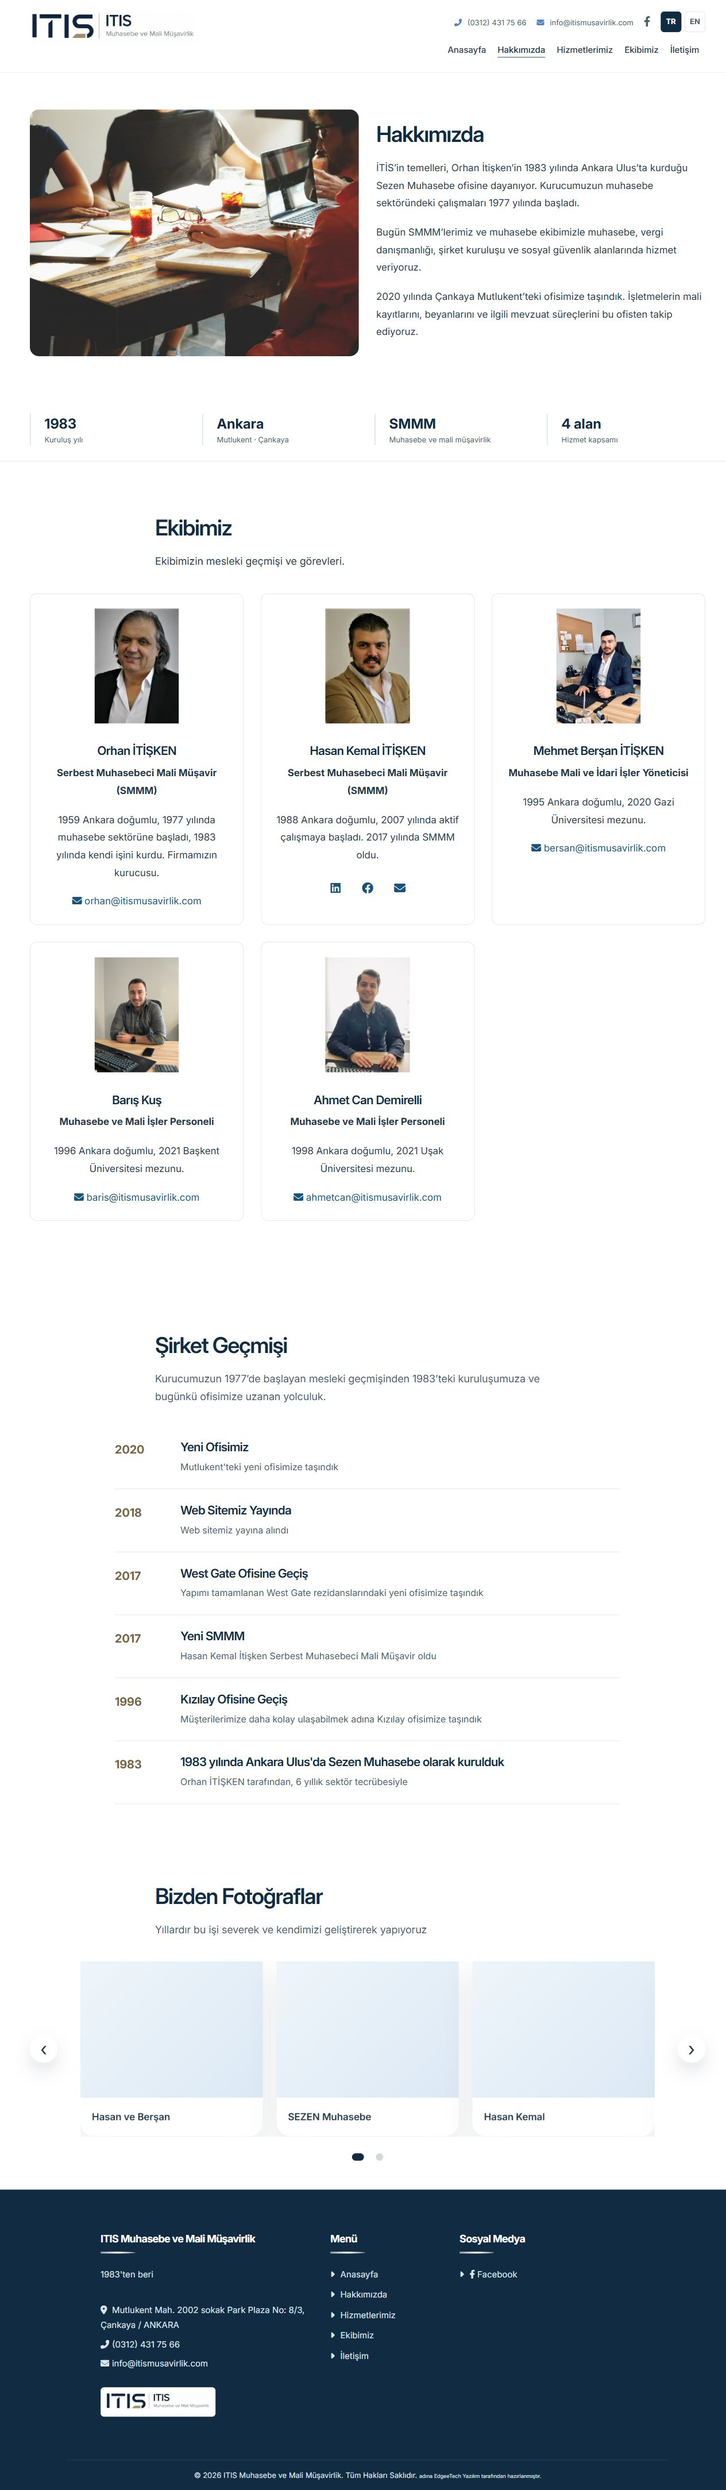
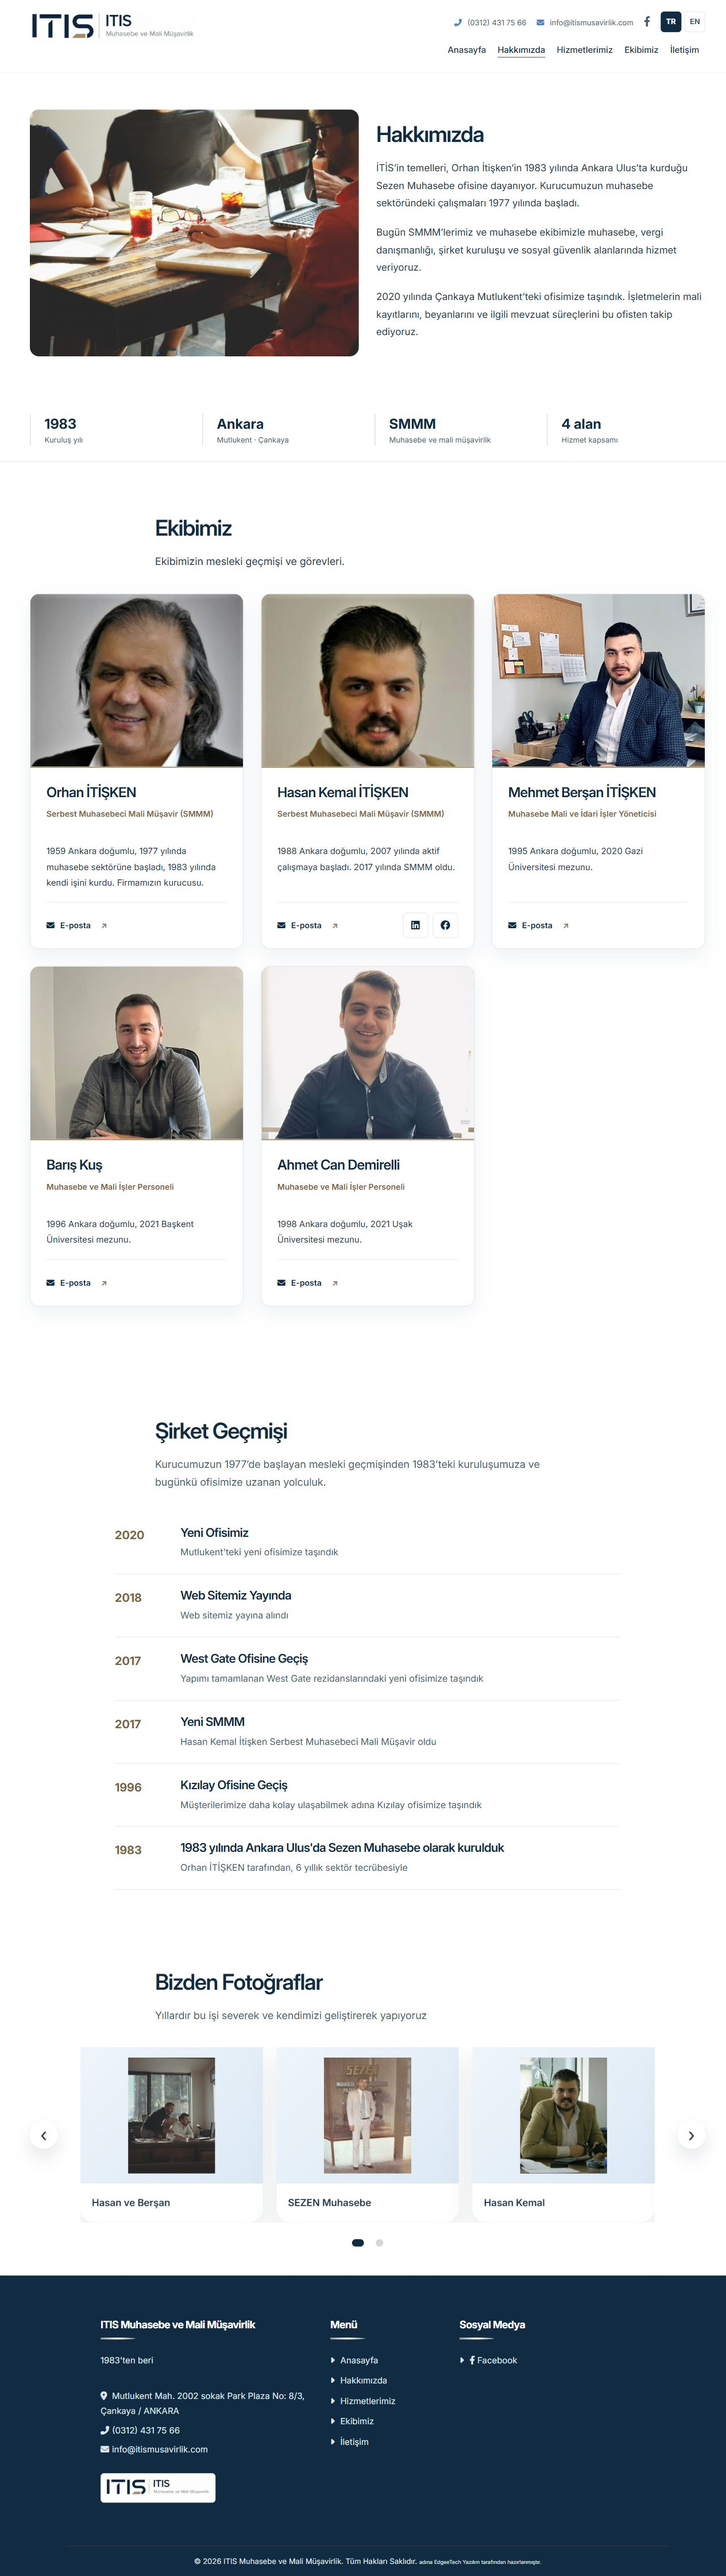
Give team cards stronger portrait and contact hierarchy

diff --git a/src/refresh.css b/src/refresh.css
@@ -79,11 +79,20 @@ img { max-width: 100%; }
 .service-item__detail-body li { margin-bottom: 10px; font-size: 16px; }
 .service-item__title-icon, .contact-details i { color: var(--accent); }
 .team-grid__col { min-width: 0; }
-.team-card { min-width: 0; overflow-wrap: anywhere; height: 100%; border-radius: 12px; border: 1px solid var(--line); background: white; padding: 26px; }
-.team-card h3 { font-size: 21px; }
-.team-card__role { color: var(--ink); font-weight: 700; }
-.team-card__image { height: 200px; object-fit: contain; }
-.team-social-links a { display: inline-flex; min-height: 44px; align-items: center; justify-content: center; min-width: 44px; }
+.team-card { min-width: 0; height: 100%; display: flex; flex-direction: column; overflow: hidden; border-radius: 16px; border: 1px solid var(--line); background: white; padding: 0; text-align: left; box-shadow: 0 12px 32px rgb(17 44 66 / 7%); transition: transform .25s ease, box-shadow .25s ease; }
+.team-card:hover, .team-card:focus-within { transform: translateY(-4px); box-shadow: 0 22px 44px rgb(17 44 66 / 13%); }
+.team-card__portrait { position: relative; background: #e8e7e2; border-bottom: 3px solid #ae9d7a; }
+.about .team-card .team-card__image { display: block; width: 100%; max-width: none; height: 300px; object-fit: cover; object-position: center 22%; margin: 0; border-radius: 0; }
+.team-card__content { flex: 1; padding: 28px 28px 20px; }
+.team-card h3 { font-size: 24px; font-weight: 600; margin: 0 0 12px; letter-spacing: -.035em; }
+.about .team-card .team-card__role { font-size: 14px; line-height: 1.55; font-weight: 600; color: #776441; margin: 0 0 20px; min-height: 3.1em; }
+.about .team-card .team-card__bio { font-size: 15px; line-height: 1.8; margin: 0; }
+.team-card__contact { display: flex; align-items: center; justify-content: space-between; gap: 12px; margin: 0 28px; padding: 18px 0; border-top: 1px solid var(--line); }
+.team-card__email { display: inline-flex; align-items: center; gap: 10px; min-height: 44px; font-size: 14px; font-weight: 600; color: var(--ink); }
+.team-card__email > span { margin-left: 8px; color: var(--accent); }
+.team-card .team-social-links { display: flex; gap: 8px; margin: 0; }
+.team-social-links a { display: inline-flex; min-height: 44px; align-items: center; justify-content: center; min-width: 44px; border-radius: 8px; border: 1px solid var(--line); font-size: 17px; color: var(--ink); }
+.team-social-links a:hover { background: var(--ink); color: white; border-color: var(--ink); }
 .gallery-section__control:hover, .gallery-section__control:focus-visible { background: var(--ink); color: white; }
 .gallery-section__dot { min-height: 24px; min-width: 24px; border: 6px solid white; }
 .gallery-section__dot.is-active, .gallery-section__dot:hover { background: var(--ink); }

diff --git a/src/components/team/TeamGrid.tsx b/src/components/team/TeamGrid.tsx
@@ -14,15 +14,25 @@ export function TeamGrid({ members }: TeamGridProps) {
       {members.map((member) => {
         return (
           <div key={member.id} className="col-lg-4 col-md-6 d-flex team-grid__col">
-            <div className="team-card h-100 w-100">
+            <article className="team-card h-100 w-100">
+              <div className="team-card__portrait">
               <img
                 src={withBasePath(member.image)}
                 alt={member.name}
                 className="team-card__image"
+                style={{ objectPosition: member.imagePosition }}
               />
+              </div>
+              <div className="team-card__content">
               <h3>{member.name}</h3>
               <p className="team-card__role">{member.role}</p>
-              <p>{member.bio}</p>
+              <p className="team-card__bio">{member.bio}</p>
+              </div>
+              <div className="team-card__contact">
+                <a className="team-card__email" href={`mailto:${member.email}`} aria-label={t('team.aria.email', { name: member.name })}>
+                  <i className="fa fa-envelope" aria-hidden="true" /> {t('team.emailLabel')}
+                  <span aria-hidden="true">↗</span>
+                </a>
               {member.social ? (
                 <div className="team-social-links">
                   {member.social.linkedin ? (
@@ -45,19 +55,10 @@ export function TeamGrid({ members }: TeamGridProps) {
                       <i className="fab fa-facebook" />
                     </a>
                   ) : null}
-                  <a
-                    href={`mailto:${member.email}`}
-                    aria-label={t('team.aria.email', { name: member.name })}
-                  >
-                    <i className="fa fa-envelope" />
-                  </a>
                 </div>
-              ) : (
-                <a href={`mailto:${member.email}`}>
-                  <i className="fa fa-envelope" /> {member.email}
-                </a>
-              )}
-            </div>
+              ) : null}
+              </div>
+            </article>
           </div>
         )
       })}

diff --git a/docs/ui-ux-refresh/executive-summary.html b/docs/ui-ux-refresh/executive-summary.html
@@ -75,6 +75,9 @@
     <figure><a href="screenshots/after-home-mobile.jpg"><img src="screenshots/after-home-mobile-hero.jpg" alt="Yeni mobil görünüm"></a><figcaption>Sonra · 390 px ekranda yatay taşma yok.</figcaption></figure>
   </div>
   <h2>Hizmet, ekip ve İngilizce sayfalar</h2>
+  <h3>Ekip kartları · 15 Ekim inceleme güncellemesi</h3>
+  <p>Ekip kartları daha güçlü bir portre alanı, ince altın ayırıcı, sola hizalı isim ve biyografi ile yenilendi. Unvanın ağırlığı azaltıldı; iletişim alanları kartların altına hizalandı. Her kartta aynı e-posta eylemi var; sosyal bağlantılar ayrı düğmelerde gösteriliyor. Mevcut fotoğraflar ve kişi bilgileri korundu, ilk iki portre yüzleri koruyacak şekilde üstten hizalandı. Hover ve klavye odağında hafif yükselme efekti var; azaltılmış hareket tercihi destekleniyor.</p>
+  <figure><img src="screenshots/after-team-cards-desktop.jpg" alt="Yenilenen üç ekip kartı"><figcaption>Yeni ekip kartları · <a href="screenshots/after-team-cards-mobile.jpg">Mobil görünüm</a>. Türkçe ve İngilizce ana sayfa / hakkında sayfasında 320, 390, 768 ve 1280 px genişlikte 16 kontrol; taşma ve bozuk portre yok.</figcaption></figure>
   <p>Tam sayfa ekran görüntüleri: <a href="screenshots/after-services-desktop.jpg">Hizmetler — masaüstü</a>, <a href="screenshots/after-services-mobile.jpg">Hizmetler — mobil</a>, <a href="screenshots/after-about-desktop.jpg">Hakkımızda, ekip ve tarihçe</a>, <a href="screenshots/after-home-en-desktop.jpg">İngilizce — masaüstü</a>, <a href="screenshots/after-home-en-mobile.jpg">İngilizce — mobil</a>, <a href="screenshots/after-home-services.jpg">Ana sayfa hizmet kartları</a>.</p>
   <h2>Doğrulama ve sınırlar</h2>
   <table><tbody>

diff --git a/src/data/team.ts b/src/data/team.ts
@@ -7,6 +7,7 @@ export type TeamMember = {
   role: string
   bio: string
   image: string
+  imagePosition?: string
   email: string
   featured: boolean
   social?: {
@@ -19,12 +20,14 @@ const teamMeta = [
   {
     id: 'orhan-itisken',
     image: '/img/orhanItisken.jpg',
+    imagePosition: 'center top',
     email: 'orhan@itismusavirlik.com',
     featured: true,
   },
   {
     id: 'hasan-kemal-itisken',
     image: '/img/hasanKemal.jpg',
+    imagePosition: 'center top',
     email: 'hasankemal@itismusavirlik.com',
     featured: true,
     social: {

diff --git a/src/locales/tr.ts b/src/locales/tr.ts
@@ -217,6 +217,7 @@ export const tr = {
     },
   },
   team: {
+    emailLabel: 'E-posta',
     aria: {
       linkedin: '{{name}} LinkedIn',
       facebook: '{{name}} Facebook',

diff --git a/src/locales/en.ts b/src/locales/en.ts
@@ -218,6 +218,7 @@ export const en = {
     },
   },
   team: {
+    emailLabel: 'Email',
     aria: {
       linkedin: '{{name}} LinkedIn',
       facebook: '{{name}} Facebook',
